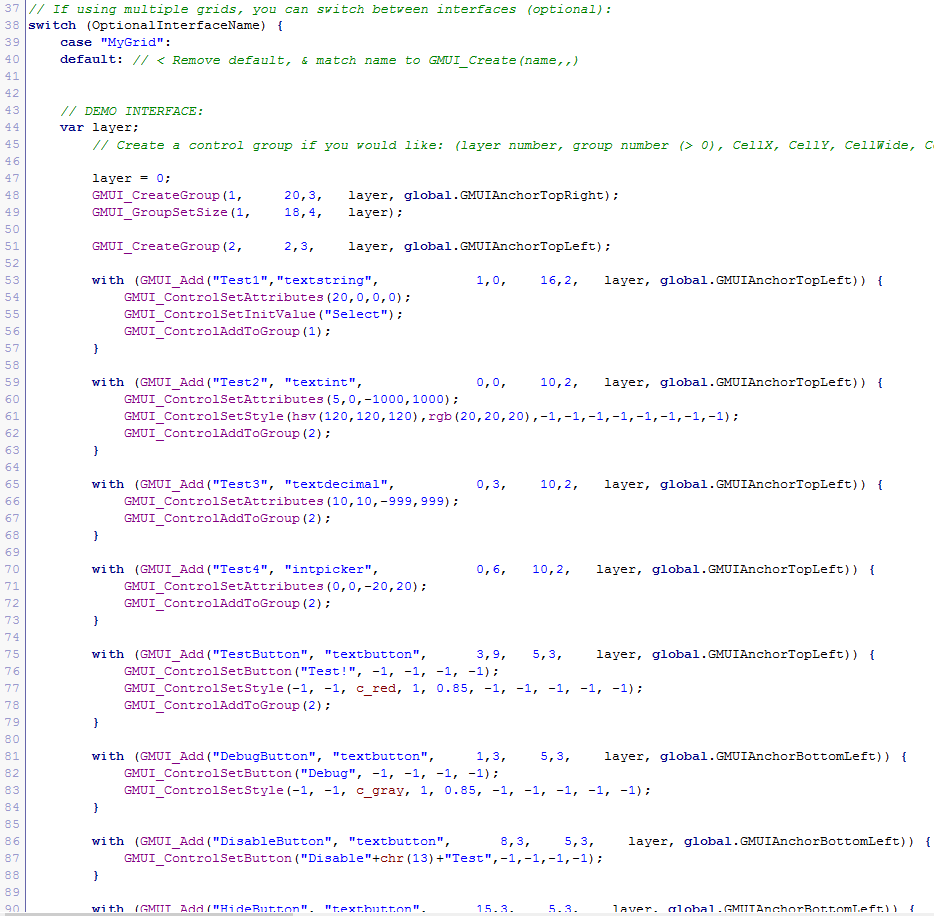
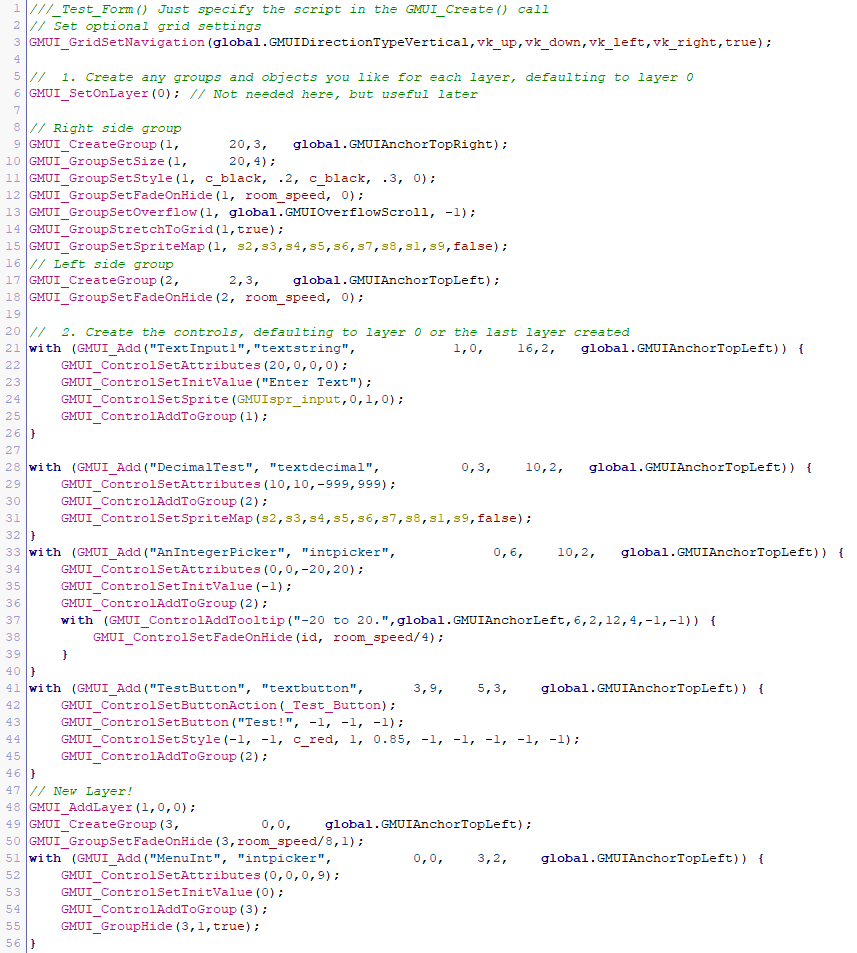
Updated README for v0.1.0

diff --git a/README.md b/README.md
@@ -1,26 +1,27 @@
 # GMUI-Framework
 ## The Best Programmable Interface for Game Maker (Studio 1.x & GM8!)
-**Still in alpha, but close to beta release** - [View the Changelog](../../wiki/Old Changelog)
 
-**Notice: Some of the documentation may be moved into a separate wiki soon for better reference**
+**Notice: Some of the documentation will be moved into a separate wiki soon for better reference!**
+
+**Please note: New features and shortcuts can be added all the time! Take a look at the wiki for the latest documentation!**
 
 <b>License:</b> GPL v3.0 (http://www.gnu.org/licenses/gpl-3.0.html)
 
-## GMUI? What the?
-GMUI lets you programmatically create all of your interface controls through a GML script, and control them through script calls included in the framework. That's right. This project is fully GML! - but don't worry, it is built with efficiency in mind. This allows you to structure and control your menus and even game controls without going crazy going in and out of debugging your own custom interface.
+## GMUI? What the? Why use this?
+GMUI lets you programmatically create all of your interface controls through a GML script, and control them through script calls included in the framework.
 
-The framework allows you to customize input fields, buttons, sliding controls. It even gives you script calls for grouping, layering, anhoring, pop-ups, menus, transitions, and more!
+That's right! This project is fully GML! - but don't worry, it is built with efficiency in mind. This allows you to structure and control your menus and even game controls without going crazy, and has all of the tedious tasks handled for you behind scripts you can call. You can do stuff like:
 
-Best of all, GMUI handles all of the code behind the scenes efficiently, making it much faster and easier to design your game's interface with better functionality and performance already built in. This may remind you of something like .NET apps with screens... Kind of ended up like it actually, interestingly enough...
+Customize **input fields**, **buttons**, **sliding** controls, and script calls for **grouping**, **layering**, **anchoring**, **pop-ups**, **menus**, **transitions**, and more!
 
-Surfaces support and shader effects coming soon!
+Best of all, GMUI handles all of the code behind the scenes efficiently, making it much faster and easier to design your game's interface with better functionality and performance already built in. This may remind you of something like .NET apps with screens... Kind of ended up like it actually,.. interestingly enough...
 
 ## How do I use it, and what does it do?
 GMUI takes this code from a Form script you create, and takes care of the rest (but still lets you easily interact with it):
 
 ![GMUI_Form_Code](docs/GMUI_Form_Code.png)
 
-And turns it into this:
+So on and so forth... And turns it into this:
 
 ![GMUI_Demo](docs/Demo_v0.0.8_menus.gif)
 
@@ -31,17 +32,12 @@ You must initialize the GMUI system in order to create grids. Typically, you'll 
 Then after it is initialized, you will need to create an object instance that will control your new grid:
 
 ```
-// You only want to call this once in your game, unless you destroy it later:
-GMUI_Init();
+GMUI_Init();		// You only want to call this once in your game, unless you destroy it later
 
-instance_create(0,0,GMUI);
+newGMUI_ID = GMUI_Create(GMUI,MyGridScriptName,16,0); 		// e.g.: newGMUI_ID will have id of 1
 ```
 
-Next, your interface object (E.g. 'GMUI') will need to call two commands in two events. Change 'MyGridScriptName' with your own script name.
-CREATE EVENT:
-
-`newGMUI = GMUI_Create(MyGridScriptName,16,0); // Script that defines interface, Cell Width, Cell Height`
-
+Next, your interface object (In this case, 'GMUI') will only need to call a single script in the draw event.
 DRAW EVENT:
 
 `GMUI_GridDraw();`
@@ -51,17 +47,21 @@ Now your Grid is ready to be used, but we must make our own layout first!
 ## Creating The Grid
 The folder structure contains all of the scripts and separates the internal commands from the ones that need to be modified, as shown here:
 
-![GMUI_Structure](docs/GMUI_Structure_v0.0.2.png)
+![GMUI_Structure](docs/GMUI_Structure_v0.1.0.png)
 ### Config script: GMUI_Settings
 This script contains some values you can adjust for your grid. This includes the object used  as the controls, specified in the script:
-`GMUI_controlobject = GMUI_control;`
+`GMUI_controlobject = My_GMUI_control_object;`
+
+*Note: This script may change to be form-specific in the next version*
 
 
 ### Folder: My Interfaces
-This folder was created for your convenience as a place to put your own interface script files. There are a number of scripts calls (in the GMUI_DeveloperCalls folder) to use to design your game's menus. When creating a new interface, first create a script that specifies the controls to create, then specify that script name as an argument when creating the interface. For example, this is used for calling the interface in the demo:
+This folder was created for your convenience as a place to put your own interface script files.
+
+Use There are a number of scripts calls (in the GMUI_DeveloperCalls folder) to use to design your game's menus. When creating a new interface, first create a script that specifies the controls to create, then specify that script name as an argument when creating the interface. For example, this is used for calling the interface in the demo:
 
 ```
-newGMUI = GMUI_Create(_Test_Form,16,0);
+newGMUI = GMUI_Create(GMUI,_Test_Form,16,0);
 ```
 
 #### Layers
@@ -70,67 +70,67 @@ The default layer is 0. Layers allow you to overlap controls on the screen, but 
 #### Groups
 Groups are in a layer and allow you to manipulate a group of controls at once (Moving, disable, hide, etc.) Here is an example of setting a variable for the layer number and adding groups:
 ```
-layer = 0;
-// Right side group
-GMUI_CreateGroup(1,     20,3,   layer, global.GMUIAnchorTopRight);
-GMUI_GroupSetSize(1,    18,4,   layer);
-// Left side group
-GMUI_CreateGroup(2,     2,3,    layer, global.GMUIAnchorTopLeft);
+// Group ID 1
+GMUI_CreateGroup(1,     20,3, global.GMUIAnchorTopRight);
+GMUI_GroupSetSize(1,    18,4);
+// Group ID 2
+GMUI_CreateGroup(2,     2,3,  global.GMUIAnchorTopLeft);
+// Create another layer
+GMUI_AddLayer(1,0,0);
+// Change to another existing Layer
+GMUI_SetOnLayer(0);
 ```
 
 #### Anchoring and direction
-You'll notice some global variables used for choosing anchors and direction. These are defined in GMUI_Init() and should be treated like constants:
+You'll notice some global variables used for choosing anchors and direction (GM8. In Studio, we can use Enums). These are defined in GMUI_Init() (see wiki)
 ```
-global.GMUIAnchorRight = 1;
-global.GMUIAnchorTopRight = 2;
-global.GMUIAnchorTop = 3;
-global.GMUIAnchorTopLeft = 4;
-global.GMUIAnchorLeft = 5;
-global.GMUIAnchorBottomLeft = 6;
-global.GMUIAnchorBottom = 7;
-global.GMUIAnchorBottomRight = 8;
-
-// Hovering directions for special controls
-global.GMUIHoveringDirection_None = 0;
-global.GMUIHoveringDirection_Right = 1;
-global.GMUIHoveringDirection_Up = 2;
-global.GMUIHoveringDirection_Left = 3;
-global.GMUIHoveringDirection_Down = 4;
-
-// Direction types
-global.GMUIDirectionTypeHorizontal = 0;
-global.GMUIDirectionTypeVertical = 1;
-global.GMUIDirectionTypeSideVertical = 2;
-global.GMUIDirectionTypeBoth = 3;
+global.GMUIAnchor[*]
+GMUIAnchor.[*] Right, TopRight, Top, TopLeft, Left, BottomLeft, Bottom, BottomRight
+global.GMUIDirectionType[*]
+GMUIDirection.[*] None, Right, Up, Left, Down
+global.GMUIPopup[*]
+GMUIPopup.[*] Blank, Information, Confirm, ThreeOptions
+global.GMUISlide[*]
+GMUISlideShape.[*] None, Line, Rect, RoundRect, FullRoundRect
+global.GMUIOverflow[*]
+GMUIOverflow.[*] None, Resize, Scroll
 ```
 
-Anchoring lets you keep the controls in the same positions relative to the screen size, which may be handy when switching screen sizes.
+Anchoring lets you keep the controls in the same positions relative to the screen size, which may be handy when switching window or room size.
 
 #### Adding a Control
-Adding controls to the form has a unique syntax to make it simple to add many controls and optionally assign additional settings to them. You can even use your own sprites! For example:
+Adding controls to the form has a different syntax, but makes it simple to add many controls and assign additional settings to them. You can even use your own sprites! For example:
 ```
-//GMUI_Add(Name,Type,Cell-X,Cell-Y,Cells Wide,Cells High,layer number,anchor)
-with (GMUI_Add("MyControl","textstring",            1,1,    16,2,   layer, global.GMUIAnchorTopLeft)) {
+//GMUI_Add(Name,Type,Cell-X,Cell-Y,Cells Wide,Cells High,anchor)
+with (GMUI_Add("MyControl","textstring",            1,1,    16,2, GMUIAnchor.TopLeft)) {
     GMUI_ControlSetAttributes(20,0,0,0); // Define value constraints
     GMUI_ControlSetInitValue("Select"); // Define an initial value
     GMUI_ControlAddToGroup(1); // Add the control to a group
+    GMUI_ControlSetSprite(sprite1,0,1,0); // With subimage # provided for normal, hovering, and selected
 }
 ```
 The **name** is important for value getting and setting and button actions.
 **Cell X,Y** is based on the anchor position (TopLeft is default). If you are anchored to the opposite side, *positive* values will count *away* from the edge anchored to.
 **Cells Wide,High** defines the size. This can also be fine tuned by calling a GMUI_ControlSetPositioning.
-**Layer Number** needs to be a number of a current layer.**At the moment it is best to stay in layer 0.**
 **Anchor** Picks the edge to anchor to. If the control is added to a group, it will anchor to the group's dimensions.
 
 #### Control Types
-Currently there are 7 controls to choose from:
+Currently you can choose from the following: *(This will be changed to allow an Enum parameter soon)*
 - **textint** - Integer field
 - **textdecimal** - Decimal field
 - **textstring** - String input
 - **intpicker** - Integer field with arrows
 - **doublepicker** - Decimal field with arrows (not completed)
+- **spritepicker** - Sprite field with arrows
 - **button** - Button to carry out an action when clicked (sprite based)
 - **textbutton** - Button with text in it instead of a sprite
+- **slider** - Slider control to select a value
+- **checkbox** - Just as it sounds!
+- **toggle** - Functionally a checkbox, but slides left/right or up/down
+- **image** - Simply display a sprite
+- **label** - Display text wrapped in the control area
+- **selectlist** - Display a list of options to select from within the control area
+- **tooltip** - Create a tooltip for a control, or use GMUI_AddTooltipToControl()
 
 If you pass an object as the type instead of one of the built-in types, it will use that custom object instead.
 
@@ -179,6 +179,33 @@ The object used for the control must make one call in the **Draw** event:
 
 `GMUI_ControlDraw(true); // True will actually draw the control, as opposed to only running required tasks.`
 
+### Menus & Popups
+A major strength of the GMUI framework is the ability to anchor, layer, and group controls. Menus and popups combine all of these features.
+
+Example for creating a menu, centered on the screen
+```
+// Instead of using the string of your menu name, you can use the ID number returned if you like
+menuID = GMUI_CreateMenu("Test Menu",   GMUI_CenterX(0, 18, GMUIAnchor.Top) ,2,   18,24,   GMUIAnchor.Top);
+GMUI_MenuSetClickOff("Test Menu", true);
+GMUI_MenuSetStyle("Test Menu", c_black, 0.5, c_white, 0.75, true);
+GMUI_MenuSetFadeOnHide("Test Menu", room_speed/4, 0);
+GMUI_MenuSetHidePosition("Test Menu", -9, 6, easeExpOut, room_speed/2);
+```
+Then, to add a control to the menu:
+`GMUI_ControlAddToMenu("Test Menu");`
+
+And to open the menu:
+`GMUI_ShowMenu("Test Menu",true,true); // true to show, and true to animate`
+
+Popups are similar, but have different options that you are able to specify:
+```
+menuID = GMUI_CreatePopup("Test Popup",  -14,2,   28,12,   GMUIAnchor.Top, GMUIPopup.ThreeOptions);
+GMUI_PopupSetMessage("Test Popup", "Click an option to return to the previous screen!", 2, -1, -1);
+GMUI_PopupSetAction("Test Popup", _PopupReturnAction);
+GMUI_PopupSetStyle("Test Popup", c_white, 1, c_white, 0.75, true);
+```
+
+
 ### GMUI_SetLayerDepths
 This script contains the depths of the advanced controls, like menus, popups, messages, etc. You typcially would not need to adjust these values.
 
@@ -202,33 +229,18 @@ There are a few scripts that are used as shorthand calls to make it easier to de
 This repository contains an output script from GM8.1 that contains all of the scripts within it, and also has an XML configuration for it. This configuration file can be used by the [GMLScriptExploder tool](https://bitbucket.org/asmarkis/gmlscriptexploder).
 
 ## Demo
-You can see a working demo here:
+You can see a working demo from the GitHub release, or from here:
 [Downloads Repository](https://bitbucket.org/asmarkis/gmui/downloads)
 
 ## Future Plans:
 There are a number of features still left to implement, including:
-- Pop-ups **** Needs to be added into readme ****
-- Menus **** Needs to be added into readme ****
-- Tooltips **** Needs to be added to readme ****
-- List Areas
 - Slider control **** Needs to be added to readme ****
-- Picker control for sprite-based selection
-- Selection list control
-- Screen transitions (of the interface)
-- Support for optional surface-based drawing
-- Effects for selection controls using surfaces
+- Screen transitions (of the interface) **** Needs to be added to readme ****
 - Font scaling
 - Additional picker styles
 - Radio type control
-- Checkbox type control
-- Animated transitions in/out
-- Wrapped text in groups and controls
-- Toggle switch type control
 
 ## Known issues:
-- Formatting on the decimal field in the Studio version is not working
-- Issue in GM:Studio version where opened menu may not work or close until the 'Expand Window' option fixes the layer.
-- Issue in GM:Studio version where controls on menus may appear under them rather than on them.
-- Documentation needed on implementation of popups and menus.
-- Documentation update needed on outdated structure.
+- Formatting on the decimal field in the Studio version is not working properly
+- Issue in GM:Studio version where switching rooms/adjusting layer may cause fade actions to affect all layers
 - Moving the view (arrow keys) may negate menu functionality
